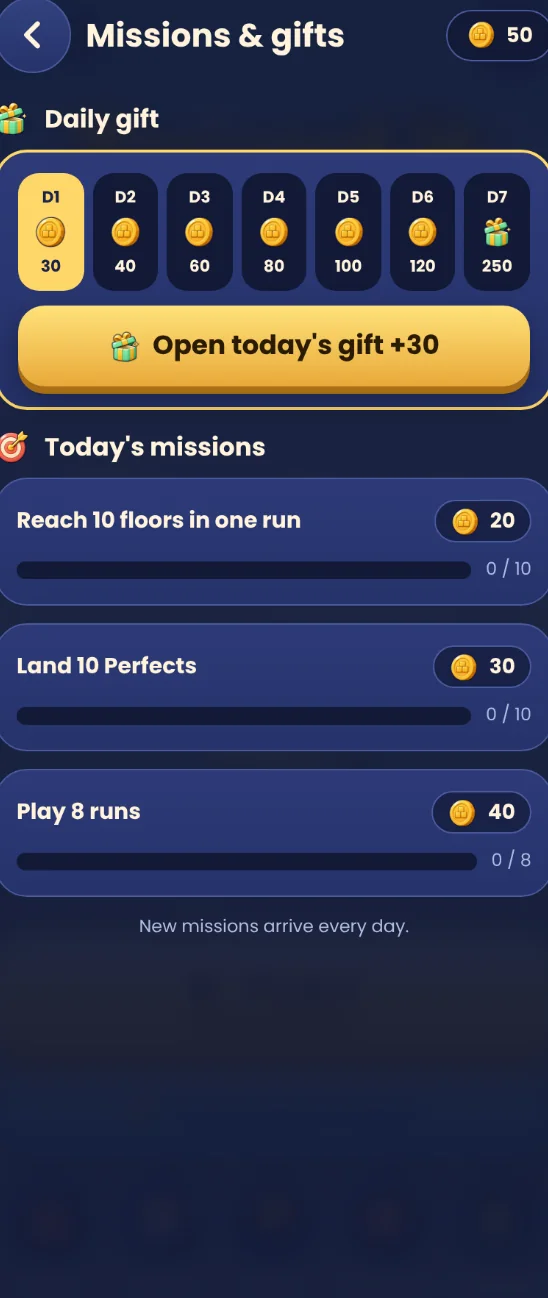
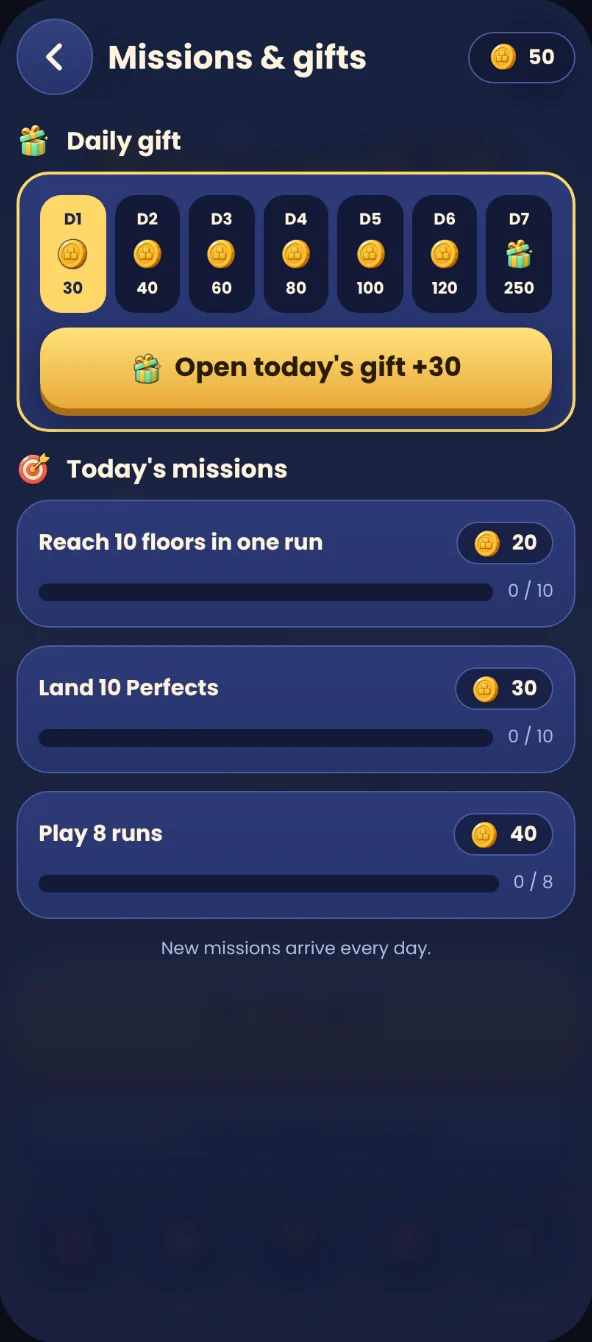
Improve app card screenshots and Towerlit phone frames
Reorder card screenshots for SecureSets, Stowmark, Scribeloft, Packwick and Towerlit so the visible top half shows the best screens. Recrop Towerlit screens to the full app screen and fix the phone frame layout on desktop and mobile.

Claude-Session: https://claude.ai/code/session_01FfkCtDQZNcMvKcENPEErLg

diff --git a/apps/index.html b/apps/index.html
@@ -220,12 +220,12 @@
         <article class="app-card app-card--securesets" aria-labelledby="securesets-card-title">
           <div class="app-card__shot" data-shots>
             <ul class="shots" tabindex="0" role="group" aria-label="SecureSets screenshots">
-              <li class="shots__item"><img src="../assets/screens/securesets/01-workout-summary.jpg?v=20261028-app-captures" alt="SecureSets completed workout summary with logged sets, lifted volume and new estimates" width="576" height="1280" loading="lazy" decoding="async"></li>
-              <li class="shots__item"><img src="../assets/screens/securesets/03-routines.jpg?v=20261028-app-captures" alt="SecureSets routines screen with AI planning, routine search and saved training plans" width="576" height="1280" loading="lazy" decoding="async"></li>
-              <li class="shots__item"><img src="../assets/screens/securesets/02-ai-focus-areas.jpg?v=20261028-app-captures" alt="SecureSets AI focus-area screen with arms selected among six muscle groups" width="576" height="1280" loading="lazy" decoding="async"></li>
-              <li class="shots__item"><img src="../assets/screens/securesets/11-routine-details.jpg?v=20261028-app-captures" alt="SecureSets routine details with exercises, training targets and a Start workout action" width="576" height="1280" loading="lazy" decoding="async"></li>
               <li class="shots__item"><img src="../assets/screens/securesets/04-pro-progression.jpg?v=20261028-app-captures" alt="SecureSets Pro example chart showing estimated bench press strength over six weeks" width="576" height="1280" loading="lazy" decoding="async"></li>
+              <li class="shots__item"><img src="../assets/screens/securesets/02-ai-focus-areas.jpg?v=20261028-app-captures" alt="SecureSets AI focus-area screen with arms selected among six muscle groups" width="576" height="1280" loading="lazy" decoding="async"></li>
+              <li class="shots__item"><img src="../assets/screens/securesets/03-routines.jpg?v=20261028-app-captures" alt="SecureSets routines screen with AI planning, routine search and saved training plans" width="576" height="1280" loading="lazy" decoding="async"></li>
               <li class="shots__item"><img src="../assets/screens/securesets/08-progress.jpg?v=20261028-app-captures" alt="SecureSets Progress screen with monthly sessions, logged lifts, sets and training insights" width="576" height="1280" loading="lazy" decoding="async"></li>
+              <li class="shots__item"><img src="../assets/screens/securesets/01-workout-summary.jpg?v=20261028-app-captures" alt="SecureSets completed workout summary with logged sets, lifted volume and new estimates" width="576" height="1280" loading="lazy" decoding="async"></li>
+              <li class="shots__item"><img src="../assets/screens/securesets/11-routine-details.jpg?v=20261028-app-captures" alt="SecureSets routine details with exercises, training targets and a Start workout action" width="576" height="1280" loading="lazy" decoding="async"></li>
               <li class="shots__item"><img src="../assets/screens/securesets/05-lifetime-stats.jpg?v=20261028-app-captures" alt="SecureSets lifetime stats with workouts, training totals and a Pro lock on total lifted" width="576" height="1280" loading="lazy" decoding="async"></li>
               <li class="shots__item"><img src="../assets/screens/securesets/06-weight-per-exercise.jpg?v=20261028-app-captures" alt="SecureSets total weight per exercise with search and muscle filters" width="576" height="1280" loading="lazy" decoding="async"></li>
             </ul>
@@ -327,11 +327,11 @@
         <article class="app-card app-card--stowmark" aria-labelledby="stowmark-card-title">
           <div class="app-card__shot" data-shots>
             <ul class="shots" tabindex="0" role="group" aria-label="Stowmark screenshots">
+              <li class="shots__item"><img src="../assets/screens/stowmark/insights.webp" alt="Stowmark insights with the estimated value today and where the value sits by room" width="900" height="1951" loading="lazy" decoding="async"></li>
+              <li class="shots__item"><img src="../assets/screens/stowmark/items.webp" alt="Stowmark item search with room filters and a list of household items" width="900" height="1951" loading="lazy" decoding="async"></li>
               <li class="shots__item"><img src="../assets/screens/stowmark/home.webp" alt="Stowmark home screen with an item count, an estimated value and rooms marked complete or needing attention" width="900" height="1951" loading="lazy" decoding="async"></li>
               <li class="shots__item"><img src="../assets/screens/stowmark/detail.webp" alt="Stowmark item screen for a television with photo, receipt and serial plate buttons and its warranty details" width="900" height="1951" loading="lazy" decoding="async"></li>
-              <li class="shots__item"><img src="../assets/screens/stowmark/items.webp" alt="Stowmark item search with room filters and a list of household items" width="900" height="1951" loading="lazy" decoding="async"></li>
               <li class="shots__item"><img src="../assets/screens/stowmark/attention.webp" alt="Stowmark list of items that need attention, with a warranty expired badge" width="900" height="1951" loading="lazy" decoding="async"></li>
-              <li class="shots__item"><img src="../assets/screens/stowmark/insights.webp" alt="Stowmark insights with the estimated value today and where the value sits by room" width="900" height="1951" loading="lazy" decoding="async"></li>
               <li class="shots__item"><img src="../assets/screens/stowmark/qr.webp" alt="Stowmark QR labels screen for printing a sheet of stickers for boxes, shelves and items" width="900" height="1951" loading="lazy" decoding="async"></li>
             </ul>
             <button class="shots-nav shots-nav--prev" type="button" aria-label="Previous screenshots" hidden><span aria-hidden="true">←</span></button>
@@ -357,12 +357,12 @@
             <ul class="shots" tabindex="0" role="group" aria-label="Scribeloft screenshots">
               <li class="shots__item"><img src="../assets/screens/scribeloft/library.webp" alt="Scribeloft library showing three novels on a shelf with covers, titles and status" width="900" height="1951" loading="lazy" decoding="async"></li>
               <li class="shots__item"><img src="../assets/screens/scribeloft/write.webp" alt="Scribeloft editor with a chapter scene in a serif font, status chips and a formatting toolbar" width="900" height="1951" loading="lazy" decoding="async"></li>
+              <li class="shots__item"><img src="../assets/screens/scribeloft/progress.webp" alt="Scribeloft progress screen with manuscript word count, daily goal, streak and a writing heatmap" width="900" height="1951" loading="lazy" decoding="async"></li>
+              <li class="shots__item"><img src="../assets/screens/scribeloft/codex.webp" alt="Scribeloft codex with characters, places, items and lore linked to the scenes they appear in" width="900" height="1951" loading="lazy" decoding="async"></li>
+              <li class="shots__item"><img src="../assets/screens/scribeloft/corkboard.webp" alt="Scribeloft corkboard with scene cards showing synopsis and word count" width="900" height="1951" loading="lazy" decoding="async"></li>
               <li class="shots__item"><img src="../assets/screens/scribeloft/structures.webp" alt="Scribeloft story structure picker with three acts, hero’s journey and Save the Cat beats" width="900" height="1951" loading="lazy" decoding="async"></li>
               <li class="shots__item"><img src="../assets/screens/scribeloft/plot.webp" alt="Scribeloft plot grid with storylines as rows and scenes as columns" width="900" height="1951" loading="lazy" decoding="async"></li>
               <li class="shots__item"><img src="../assets/screens/scribeloft/check.webp" alt="Scribeloft writing check listing repeated words, filler words and adverbs in a scene" width="900" height="1951" loading="lazy" decoding="async"></li>
-              <li class="shots__item"><img src="../assets/screens/scribeloft/codex.webp" alt="Scribeloft codex with characters, places, items and lore linked to the scenes they appear in" width="900" height="1951" loading="lazy" decoding="async"></li>
-              <li class="shots__item"><img src="../assets/screens/scribeloft/corkboard.webp" alt="Scribeloft corkboard with scene cards showing synopsis and word count" width="900" height="1951" loading="lazy" decoding="async"></li>
-              <li class="shots__item"><img src="../assets/screens/scribeloft/progress.webp" alt="Scribeloft progress screen with manuscript word count, daily goal, streak and a writing heatmap" width="900" height="1951" loading="lazy" decoding="async"></li>
             </ul>
             <button class="shots-nav shots-nav--prev" type="button" aria-label="Previous screenshots" hidden><span aria-hidden="true">←</span></button>
             <button class="shots-nav shots-nav--next" type="button" aria-label="Next screenshots" hidden><span aria-hidden="true">→</span></button>
@@ -385,14 +385,14 @@
         <article class="app-card app-card--packwick" aria-labelledby="packwick-card-title">
           <div class="app-card__shot" data-shots>
             <ul class="shots" tabindex="0" role="group" aria-label="Packwick screenshots">
-              <li class="shots__item"><img src="../assets/screens/packwick/map.webp" alt="Packwick map with a winding path through the arena camp, with Armory, Arena, Quests, Outfit and Shop signposts" width="900" height="1947" loading="lazy" decoding="async"></li>
-              <li class="shots__item"><img src="../assets/screens/packwick/prefight.webp" alt="Packwick pre-fight screen showing the rival Old Hoot, a wizard owl, with stats and a gold bet choice" width="900" height="1947" loading="lazy" decoding="async"></li>
               <li class="shots__item"><img src="../assets/screens/packwick/battle.webp" alt="Packwick battle with the hero facing Old Hoot, the next move shown above the enemy and six action buttons" width="900" height="1947" loading="lazy" decoding="async"></li>
+              <li class="shots__item"><img src="../assets/screens/packwick/prefight.webp" alt="Packwick pre-fight screen showing the rival Old Hoot, a wizard owl, with stats and a gold bet choice" width="900" height="1947" loading="lazy" decoding="async"></li>
               <li class="shots__item"><img src="../assets/screens/packwick/win.webp" alt="Packwick victory screen after clearing the Catacomb Ring, with gold reward" width="900" height="1947" loading="lazy" decoding="async"></li>
               <li class="shots__item"><img src="../assets/screens/packwick/camp.webp" alt="Packwick camp with the hero and buttons for Gear, Armory, Forge, Training, Healer and Laurels" width="900" height="1947" loading="lazy" decoding="async"></li>
               <li class="shots__item"><img src="../assets/screens/packwick/gear.webp" alt="Packwick gear screen with weapon, shield, helmet, armour, sandals and charm slots and a bag of items" width="900" height="1947" loading="lazy" decoding="async"></li>
               <li class="shots__item"><img src="../assets/screens/packwick/forge.webp" alt="Packwick forge listing gear upgrades with the stat change and gold cost" width="900" height="1947" loading="lazy" decoding="async"></li>
               <li class="shots__item"><img src="../assets/screens/packwick/wardrobe.webp" alt="Packwick wardrobe with cape colours and outfits" width="900" height="1947" loading="lazy" decoding="async"></li>
+              <li class="shots__item"><img src="../assets/screens/packwick/map.webp" alt="Packwick map with a winding path through the arena camp, with Armory, Arena, Quests, Outfit and Shop signposts" width="900" height="1947" loading="lazy" decoding="async"></li>
             </ul>
             <button class="shots-nav shots-nav--prev" type="button" aria-label="Previous screenshots" hidden><span aria-hidden="true">←</span></button>
             <button class="shots-nav shots-nav--next" type="button" aria-label="Next screenshots" hidden><span aria-hidden="true">→</span></button>
@@ -445,11 +445,11 @@
         <article class="app-card app-card--towerlit" aria-labelledby="towerlit-card-title">
           <div class="app-card__shot" data-shots>
             <ul class="shots" tabindex="0" role="group" aria-label="Towerlit screenshots">
-              <li class="shots__item"><img src="../assets/screens/towerlit/play.webp" alt="Towerlit gameplay with a small tower of coloured floors and the floor counter at the top" width="548" height="1298" loading="lazy" decoding="async"></li>
-              <li class="shots__item"><img src="../assets/screens/towerlit/styles.webp" alt="Towerlit shop with building styles such as Sage Cottage, Terracotta Row and Petrol Harbor" width="548" height="1298" loading="lazy" decoding="async"></li>
-              <li class="shots__item"><img src="../assets/screens/towerlit/skies.webp" alt="Towerlit shop with sky choices such as Clear Day, Rose Dawn, Moonlit Night and Aurora" width="548" height="1298" loading="lazy" decoding="async"></li>
-              <li class="shots__item"><img src="../assets/screens/towerlit/missions.webp" alt="Towerlit missions screen with a seven-day daily gift and three daily missions" width="548" height="1298" loading="lazy" decoding="async"></li>
-              <li class="shots__item"><img src="../assets/screens/towerlit/stats.webp" alt="Towerlit statistics screen with games played, record, average floors and perfect drops" width="548" height="1298" loading="lazy" decoding="async"></li>
+              <li class="shots__item"><img src="../assets/screens/towerlit/styles.webp" alt="Towerlit shop with building styles such as Sage Cottage, Terracotta Row and Petrol Harbor" width="592" height="1342" loading="lazy" decoding="async"></li>
+              <li class="shots__item"><img src="../assets/screens/towerlit/missions.webp" alt="Towerlit missions screen with a seven-day daily gift and three daily missions" width="592" height="1342" loading="lazy" decoding="async"></li>
+              <li class="shots__item"><img src="../assets/screens/towerlit/skies.webp" alt="Towerlit shop with sky choices such as Clear Day, Rose Dawn, Moonlit Night and Aurora" width="592" height="1342" loading="lazy" decoding="async"></li>
+              <li class="shots__item"><img src="../assets/screens/towerlit/stats.webp" alt="Towerlit statistics screen with games played, record, average floors and perfect drops" width="592" height="1342" loading="lazy" decoding="async"></li>
+              <li class="shots__item"><img src="../assets/screens/towerlit/play.webp" alt="Towerlit gameplay with a small tower of coloured floors and the floor counter at the top" width="592" height="1342" loading="lazy" decoding="async"></li>
             </ul>
             <button class="shots-nav shots-nav--prev" type="button" aria-label="Previous screenshots" hidden><span aria-hidden="true">←</span></button>
             <button class="shots-nav shots-nav--next" type="button" aria-label="Next screenshots" hidden><span aria-hidden="true">→</span></button>

diff --git a/index.html b/index.html
@@ -117,12 +117,12 @@
         <article class="app-card app-card--securesets" aria-labelledby="securesets-card-title">
           <div class="app-card__shot" data-shots>
             <ul class="shots" tabindex="0" role="group" aria-label="SecureSets screenshots">
-              <li class="shots__item"><img src="assets/screens/securesets/01-workout-summary.jpg?v=20261028-app-captures" alt="SecureSets completed workout summary with logged sets, lifted volume and new estimates" width="576" height="1280" loading="lazy" decoding="async"></li>
-              <li class="shots__item"><img src="assets/screens/securesets/03-routines.jpg?v=20261028-app-captures" alt="SecureSets routines screen with AI planning, routine search and saved training plans" width="576" height="1280" loading="lazy" decoding="async"></li>
-              <li class="shots__item"><img src="assets/screens/securesets/02-ai-focus-areas.jpg?v=20261028-app-captures" alt="SecureSets AI focus-area screen with arms selected among six muscle groups" width="576" height="1280" loading="lazy" decoding="async"></li>
-              <li class="shots__item"><img src="assets/screens/securesets/11-routine-details.jpg?v=20261028-app-captures" alt="SecureSets routine details with exercises, training targets and a Start workout action" width="576" height="1280" loading="lazy" decoding="async"></li>
               <li class="shots__item"><img src="assets/screens/securesets/04-pro-progression.jpg?v=20261028-app-captures" alt="SecureSets Pro example chart showing estimated bench press strength over six weeks" width="576" height="1280" loading="lazy" decoding="async"></li>
+              <li class="shots__item"><img src="assets/screens/securesets/02-ai-focus-areas.jpg?v=20261028-app-captures" alt="SecureSets AI focus-area screen with arms selected among six muscle groups" width="576" height="1280" loading="lazy" decoding="async"></li>
+              <li class="shots__item"><img src="assets/screens/securesets/03-routines.jpg?v=20261028-app-captures" alt="SecureSets routines screen with AI planning, routine search and saved training plans" width="576" height="1280" loading="lazy" decoding="async"></li>
               <li class="shots__item"><img src="assets/screens/securesets/08-progress.jpg?v=20261028-app-captures" alt="SecureSets Progress screen with monthly sessions, logged lifts, sets and training insights" width="576" height="1280" loading="lazy" decoding="async"></li>
+              <li class="shots__item"><img src="assets/screens/securesets/01-workout-summary.jpg?v=20261028-app-captures" alt="SecureSets completed workout summary with logged sets, lifted volume and new estimates" width="576" height="1280" loading="lazy" decoding="async"></li>
+              <li class="shots__item"><img src="assets/screens/securesets/11-routine-details.jpg?v=20261028-app-captures" alt="SecureSets routine details with exercises, training targets and a Start workout action" width="576" height="1280" loading="lazy" decoding="async"></li>
               <li class="shots__item"><img src="assets/screens/securesets/05-lifetime-stats.jpg?v=20261028-app-captures" alt="SecureSets lifetime stats with workouts, training totals and a Pro lock on total lifted" width="576" height="1280" loading="lazy" decoding="async"></li>
               <li class="shots__item"><img src="assets/screens/securesets/06-weight-per-exercise.jpg?v=20261028-app-captures" alt="SecureSets total weight per exercise with search and muscle filters" width="576" height="1280" loading="lazy" decoding="async"></li>
             </ul>
@@ -224,11 +224,11 @@
         <article class="app-card app-card--stowmark" aria-labelledby="stowmark-card-title">
           <div class="app-card__shot" data-shots>
             <ul class="shots" tabindex="0" role="group" aria-label="Stowmark screenshots">
+              <li class="shots__item"><img src="assets/screens/stowmark/insights.webp" alt="Stowmark insights with the estimated value today and where the value sits by room" width="900" height="1951" loading="lazy" decoding="async"></li>
+              <li class="shots__item"><img src="assets/screens/stowmark/items.webp" alt="Stowmark item search with room filters and a list of household items" width="900" height="1951" loading="lazy" decoding="async"></li>
               <li class="shots__item"><img src="assets/screens/stowmark/home.webp" alt="Stowmark home screen with an item count, an estimated value and rooms marked complete or needing attention" width="900" height="1951" loading="lazy" decoding="async"></li>
               <li class="shots__item"><img src="assets/screens/stowmark/detail.webp" alt="Stowmark item screen for a television with photo, receipt and serial plate buttons and its warranty details" width="900" height="1951" loading="lazy" decoding="async"></li>
-              <li class="shots__item"><img src="assets/screens/stowmark/items.webp" alt="Stowmark item search with room filters and a list of household items" width="900" height="1951" loading="lazy" decoding="async"></li>
               <li class="shots__item"><img src="assets/screens/stowmark/attention.webp" alt="Stowmark list of items that need attention, with a warranty expired badge" width="900" height="1951" loading="lazy" decoding="async"></li>
-              <li class="shots__item"><img src="assets/screens/stowmark/insights.webp" alt="Stowmark insights with the estimated value today and where the value sits by room" width="900" height="1951" loading="lazy" decoding="async"></li>
               <li class="shots__item"><img src="assets/screens/stowmark/qr.webp" alt="Stowmark QR labels screen for printing a sheet of stickers for boxes, shelves and items" width="900" height="1951" loading="lazy" decoding="async"></li>
             </ul>
             <button class="shots-nav shots-nav--prev" type="button" aria-label="Previous screenshots" hidden><span aria-hidden="true">←</span></button>
@@ -254,12 +254,12 @@
             <ul class="shots" tabindex="0" role="group" aria-label="Scribeloft screenshots">
               <li class="shots__item"><img src="assets/screens/scribeloft/library.webp" alt="Scribeloft library showing three novels on a shelf with covers, titles and status" width="900" height="1951" loading="lazy" decoding="async"></li>
               <li class="shots__item"><img src="assets/screens/scribeloft/write.webp" alt="Scribeloft editor with a chapter scene in a serif font, status chips and a formatting toolbar" width="900" height="1951" loading="lazy" decoding="async"></li>
+              <li class="shots__item"><img src="assets/screens/scribeloft/progress.webp" alt="Scribeloft progress screen with manuscript word count, daily goal, streak and a writing heatmap" width="900" height="1951" loading="lazy" decoding="async"></li>
+              <li class="shots__item"><img src="assets/screens/scribeloft/codex.webp" alt="Scribeloft codex with characters, places, items and lore linked to the scenes they appear in" width="900" height="1951" loading="lazy" decoding="async"></li>
+              <li class="shots__item"><img src="assets/screens/scribeloft/corkboard.webp" alt="Scribeloft corkboard with scene cards showing synopsis and word count" width="900" height="1951" loading="lazy" decoding="async"></li>
               <li class="shots__item"><img src="assets/screens/scribeloft/structures.webp" alt="Scribeloft story structure picker with three acts, hero’s journey and Save the Cat beats" width="900" height="1951" loading="lazy" decoding="async"></li>
               <li class="shots__item"><img src="assets/screens/scribeloft/plot.webp" alt="Scribeloft plot grid with storylines as rows and scenes as columns" width="900" height="1951" loading="lazy" decoding="async"></li>
               <li class="shots__item"><img src="assets/screens/scribeloft/check.webp" alt="Scribeloft writing check listing repeated words, filler words and adverbs in a scene" width="900" height="1951" loading="lazy" decoding="async"></li>
-              <li class="shots__item"><img src="assets/screens/scribeloft/codex.webp" alt="Scribeloft codex with characters, places, items and lore linked to the scenes they appear in" width="900" height="1951" loading="lazy" decoding="async"></li>
-              <li class="shots__item"><img src="assets/screens/scribeloft/corkboard.webp" alt="Scribeloft corkboard with scene cards showing synopsis and word count" width="900" height="1951" loading="lazy" decoding="async"></li>
-              <li class="shots__item"><img src="assets/screens/scribeloft/progress.webp" alt="Scribeloft progress screen with manuscript word count, daily goal, streak and a writing heatmap" width="900" height="1951" loading="lazy" decoding="async"></li>
             </ul>
             <button class="shots-nav shots-nav--prev" type="button" aria-label="Previous screenshots" hidden><span aria-hidden="true">←</span></button>
             <button class="shots-nav shots-nav--next" type="button" aria-label="Next screenshots" hidden><span aria-hidden="true">→</span></button>
@@ -282,14 +282,14 @@
         <article class="app-card app-card--packwick" aria-labelledby="packwick-card-title">
           <div class="app-card__shot" data-shots>
             <ul class="shots" tabindex="0" role="group" aria-label="Packwick screenshots">
-              <li class="shots__item"><img src="assets/screens/packwick/map.webp" alt="Packwick map with a winding path through the arena camp, with Armory, Arena, Quests, Outfit and Shop signposts" width="900" height="1947" loading="lazy" decoding="async"></li>
-              <li class="shots__item"><img src="assets/screens/packwick/prefight.webp" alt="Packwick pre-fight screen showing the rival Old Hoot, a wizard owl, with stats and a gold bet choice" width="900" height="1947" loading="lazy" decoding="async"></li>
               <li class="shots__item"><img src="assets/screens/packwick/battle.webp" alt="Packwick battle with the hero facing Old Hoot, the next move shown above the enemy and six action buttons" width="900" height="1947" loading="lazy" decoding="async"></li>
+              <li class="shots__item"><img src="assets/screens/packwick/prefight.webp" alt="Packwick pre-fight screen showing the rival Old Hoot, a wizard owl, with stats and a gold bet choice" width="900" height="1947" loading="lazy" decoding="async"></li>
               <li class="shots__item"><img src="assets/screens/packwick/win.webp" alt="Packwick victory screen after clearing the Catacomb Ring, with gold reward" width="900" height="1947" loading="lazy" decoding="async"></li>
               <li class="shots__item"><img src="assets/screens/packwick/camp.webp" alt="Packwick camp with the hero and buttons for Gear, Armory, Forge, Training, Healer and Laurels" width="900" height="1947" loading="lazy" decoding="async"></li>
               <li class="shots__item"><img src="assets/screens/packwick/gear.webp" alt="Packwick gear screen with weapon, shield, helmet, armour, sandals and charm slots and a bag of items" width="900" height="1947" loading="lazy" decoding="async"></li>
               <li class="shots__item"><img src="assets/screens/packwick/forge.webp" alt="Packwick forge listing gear upgrades with the stat change and gold cost" width="900" height="1947" loading="lazy" decoding="async"></li>
               <li class="shots__item"><img src="assets/screens/packwick/wardrobe.webp" alt="Packwick wardrobe with cape colours and outfits" width="900" height="1947" loading="lazy" decoding="async"></li>
+              <li class="shots__item"><img src="assets/screens/packwick/map.webp" alt="Packwick map with a winding path through the arena camp, with Armory, Arena, Quests, Outfit and Shop signposts" width="900" height="1947" loading="lazy" decoding="async"></li>
             </ul>
             <button class="shots-nav shots-nav--prev" type="button" aria-label="Previous screenshots" hidden><span aria-hidden="true">←</span></button>
             <button class="shots-nav shots-nav--next" type="button" aria-label="Next screenshots" hidden><span aria-hidden="true">→</span></button>
@@ -342,11 +342,11 @@
         <article class="app-card app-card--towerlit" aria-labelledby="towerlit-card-title">
           <div class="app-card__shot" data-shots>
             <ul class="shots" tabindex="0" role="group" aria-label="Towerlit screenshots">
-              <li class="shots__item"><img src="assets/screens/towerlit/play.webp" alt="Towerlit gameplay with a small tower of coloured floors and the floor counter at the top" width="548" height="1298" loading="lazy" decoding="async"></li>
-              <li class="shots__item"><img src="assets/screens/towerlit/styles.webp" alt="Towerlit shop with building styles such as Sage Cottage, Terracotta Row and Petrol Harbor" width="548" height="1298" loading="lazy" decoding="async"></li>
-              <li class="shots__item"><img src="assets/screens/towerlit/skies.webp" alt="Towerlit shop with sky choices such as Clear Day, Rose Dawn, Moonlit Night and Aurora" width="548" height="1298" loading="lazy" decoding="async"></li>
-              <li class="shots__item"><img src="assets/screens/towerlit/missions.webp" alt="Towerlit missions screen with a seven-day daily gift and three daily missions" width="548" height="1298" loading="lazy" decoding="async"></li>
-              <li class="shots__item"><img src="assets/screens/towerlit/stats.webp" alt="Towerlit statistics screen with games played, record, average floors and perfect drops" width="548" height="1298" loading="lazy" decoding="async"></li>
+              <li class="shots__item"><img src="assets/screens/towerlit/styles.webp" alt="Towerlit shop with building styles such as Sage Cottage, Terracotta Row and Petrol Harbor" width="592" height="1342" loading="lazy" decoding="async"></li>
+              <li class="shots__item"><img src="assets/screens/towerlit/missions.webp" alt="Towerlit missions screen with a seven-day daily gift and three daily missions" width="592" height="1342" loading="lazy" decoding="async"></li>
+              <li class="shots__item"><img src="assets/screens/towerlit/skies.webp" alt="Towerlit shop with sky choices such as Clear Day, Rose Dawn, Moonlit Night and Aurora" width="592" height="1342" loading="lazy" decoding="async"></li>
+              <li class="shots__item"><img src="assets/screens/towerlit/stats.webp" alt="Towerlit statistics screen with games played, record, average floors and perfect drops" width="592" height="1342" loading="lazy" decoding="async"></li>
+              <li class="shots__item"><img src="assets/screens/towerlit/play.webp" alt="Towerlit gameplay with a small tower of coloured floors and the floor counter at the top" width="592" height="1342" loading="lazy" decoding="async"></li>
             </ul>
             <button class="shots-nav shots-nav--prev" type="button" aria-label="Previous screenshots" hidden><span aria-hidden="true">←</span></button>
             <button class="shots-nav shots-nav--next" type="button" aria-label="Next screenshots" hidden><span aria-hidden="true">→</span></button>

diff --git a/towerlit/index.html b/towerlit/index.html
@@ -66,8 +66,8 @@
         <p class="product-trustline">No account · Works offline · Progress stays on your device</p>
       </div>
       <div class="product-visual" aria-label="Towerlit app screenshots">
-        <span class="phone-frame phone-frame--training" data-reveal><img src="../assets/screens/towerlit/play.webp" alt="Towerlit gameplay with a small tower of coloured floors and the floor counter at the top" width="548" height="1298" fetchpriority="high" decoding="async"></span>
-        <span class="phone-frame phone-frame--training phone-frame--small" data-reveal style="--delay: 100ms"><img src="../assets/screens/towerlit/styles.webp" alt="Towerlit shop with building styles such as Sage Cottage, Terracotta Row and Petrol Harbor" width="548" height="1298" loading="lazy" decoding="async"></span>
+        <span class="phone-frame phone-frame--training" data-reveal><img src="../assets/screens/towerlit/play.webp" alt="Towerlit gameplay with a small tower of coloured floors and the floor counter at the top" width="592" height="1342" fetchpriority="high" decoding="async"></span>
+        <span class="phone-frame phone-frame--training phone-frame--small" data-reveal style="--delay: 100ms"><img src="../assets/screens/towerlit/styles.webp" alt="Towerlit shop with building styles such as Sage Cottage, Terracotta Row and Petrol Harbor" width="592" height="1342" loading="lazy" decoding="async"></span>
       </div>
     </section>
 
@@ -114,19 +114,19 @@
 
     <section class="product-gallery" aria-label="More Towerlit screens">
       <figure data-reveal>
-        <span class="phone-frame phone-frame--training"><img src="../assets/screens/towerlit/skies.webp" alt="Towerlit shop with sky choices such as Clear Day, Rose Dawn, Moonlit Night and Aurora" width="548" height="1298" loading="lazy" decoding="async"></span>
+        <span class="phone-frame phone-frame--training"><img src="../assets/screens/towerlit/skies.webp" alt="Towerlit shop with sky choices such as Clear Day, Rose Dawn, Moonlit Night and Aurora" width="592" height="1342" loading="lazy" decoding="async"></span>
         <figcaption>Pick your sky</figcaption>
       </figure>
       <figure data-reveal style="--delay: 80ms">
-        <span class="phone-frame phone-frame--training"><img src="../assets/screens/towerlit/styles.webp" alt="Towerlit shop with building styles such as Sage Cottage, Terracotta Row and Petrol Harbor" width="548" height="1298" loading="lazy" decoding="async"></span>
+        <span class="phone-frame phone-frame--training"><img src="../assets/screens/towerlit/styles.webp" alt="Towerlit shop with building styles such as Sage Cottage, Terracotta Row and Petrol Harbor" width="592" height="1342" loading="lazy" decoding="async"></span>
         <figcaption>Collect building styles</figcaption>
       </figure>
       <figure data-reveal style="--delay: 160ms">
-        <span class="phone-frame phone-frame--training"><img src="../assets/screens/towerlit/missions.webp" alt="Towerlit missions screen with a seven-day daily gift and three daily missions" width="548" height="1298" loading="lazy" decoding="async"></span>
+        <span class="phone-frame phone-frame--training"><img src="../assets/screens/towerlit/missions.webp" alt="Towerlit missions screen with a seven-day daily gift and three daily missions" width="592" height="1342" loading="lazy" decoding="async"></span>
         <figcaption>Daily missions and gifts</figcaption>
       </figure>
       <figure data-reveal style="--delay: 240ms">
-        <span class="phone-frame phone-frame--training"><img src="../assets/screens/towerlit/stats.webp" alt="Towerlit statistics screen with games played, record, average floors and perfect drops" width="548" height="1298" loading="lazy" decoding="async"></span>
+        <span class="phone-frame phone-frame--training"><img src="../assets/screens/towerlit/stats.webp" alt="Towerlit statistics screen with games played, record, average floors and perfect drops" width="592" height="1342" loading="lazy" decoding="async"></span>
         <figcaption>Follow your progress</figcaption>
       </figure>
     </section>

diff --git a/assets/site.css b/assets/site.css
@@ -944,3 +944,14 @@ h1, h2, h3, p { margin-top: 0; }
 .towerlit-page .product-final-cta { background: linear-gradient(135deg, #12206a, #2140a8); }
 .towerlit-page .site-footer { background: #080f2c; }
 @media (max-width: 900px) { .towerlit-page .product-tier-grid { grid-template-columns: 1fr; } }
+.towerlit-page .phone-frame { aspect-ratio: 592 / 1342; padding: 6px; border-radius: 36px; }
+.towerlit-page .phone-frame::after { display: none; }
+.towerlit-page .phone-frame img { border-radius: 30px; object-fit: fill; }
+.towerlit-page .product-visual { align-items: center; }
+.towerlit-page .product-visual .phone-frame { width: min(44%, 250px); }
+.towerlit-page .product-visual .phone-frame--small { width: min(44%, 250px); margin-top: 8%; }
+.towerlit-page .product-gallery .phone-frame { max-width: 230px; aspect-ratio: 592 / 1342; }
+@media (max-width: 760px) {
+  .towerlit-page .product-visual .phone-frame { padding: 6px; }
+  .towerlit-page .product-visual .phone-frame img { position: static; width: 100%; height: 100%; }
+}
